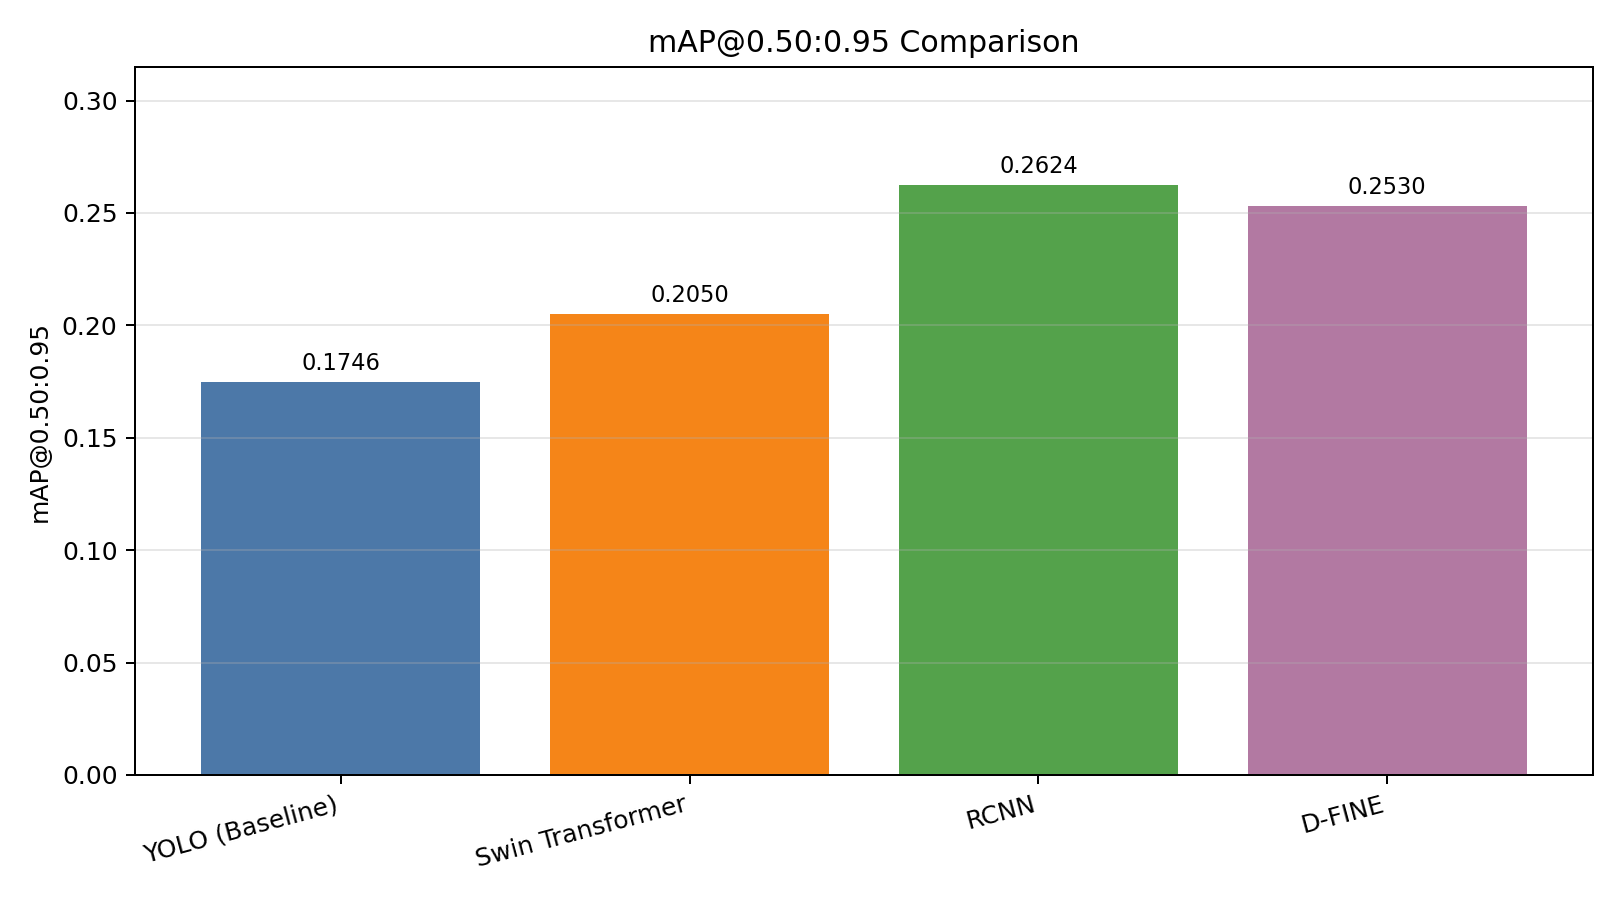
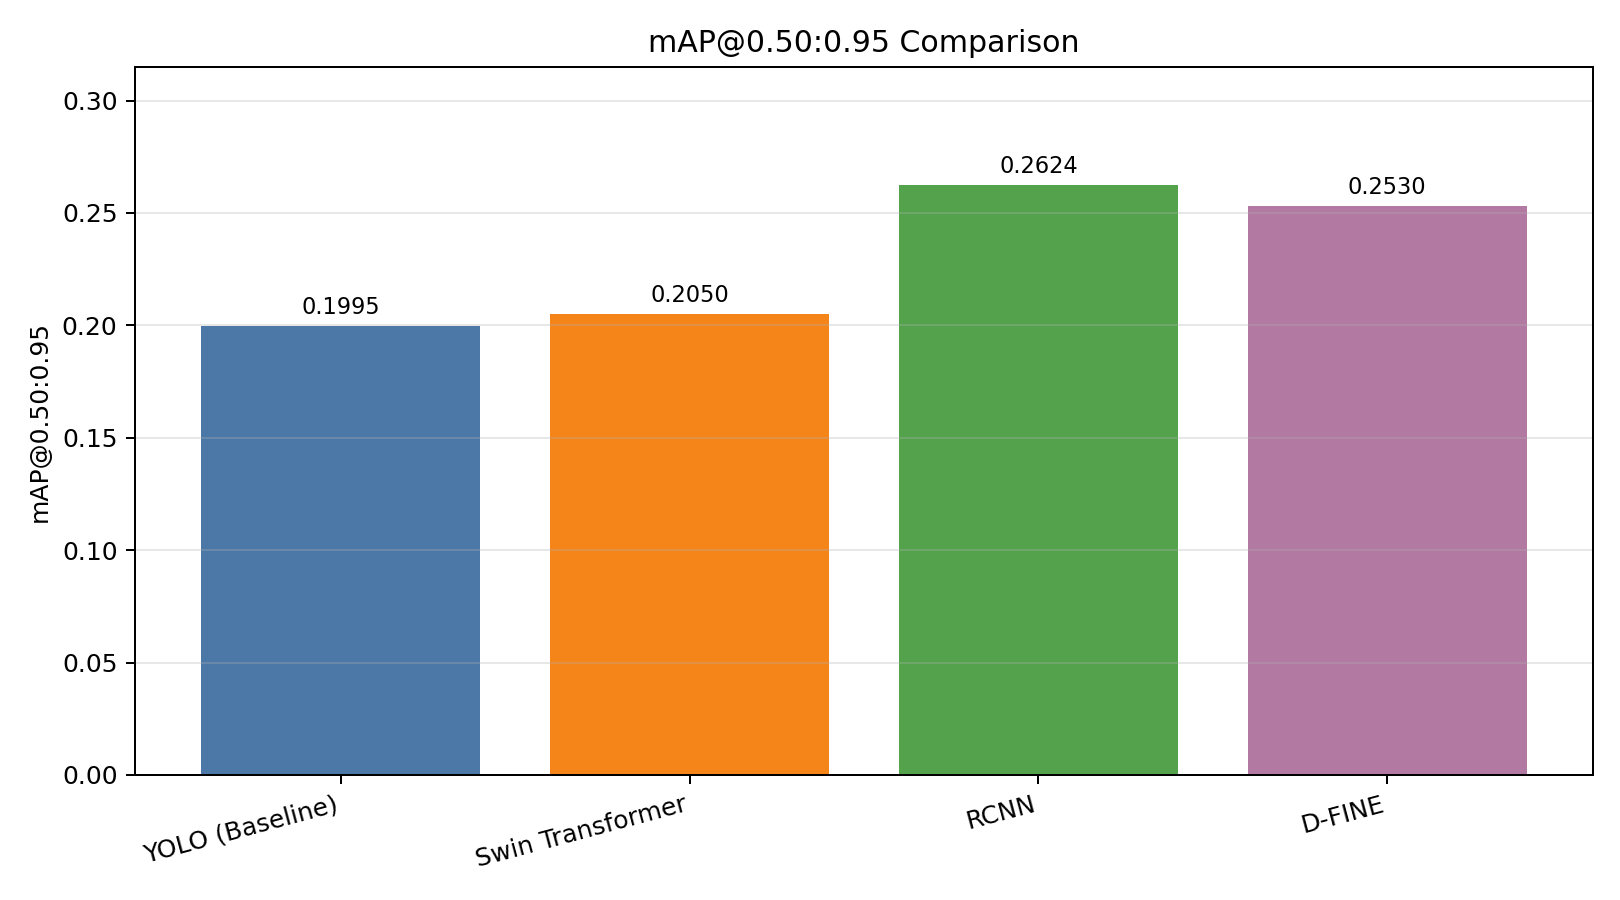
fixed the confidence threshold

Changed region(s): [[0.1235, 0.3111, 0.3086, 0.4356]]

diff --git a/scripts/evaluation.py b/scripts/evaluation.py
@@ -255,7 +255,13 @@ def infer_with_yolo(model_path: Path, test_images: list[Path], device: torch.dev
 
     t0 = time.perf_counter()
     for img_path in test_images:
-        result = model.predict(source=str(img_path), verbose=False, device=0 if device.type == "cuda" else "cpu")[0]
+        # Align YOLO confidence filtering with torchvision models (score threshold = 0.05).
+        result = model.predict(
+            source=str(img_path),
+            verbose=False,
+            device=0 if device.type == "cuda" else "cpu",
+            conf=0.05,
+        )[0]
         boxes = result.boxes.xyxy.detach().cpu() if result.boxes is not None else torch.zeros((0, 4))
         scores = result.boxes.conf.detach().cpu() if result.boxes is not None else torch.zeros((0,))
         labels = result.boxes.cls.detach().cpu().to(torch.int64) + 1 if result.boxes is not None else torch.zeros((0,), dtype=torch.int64)
